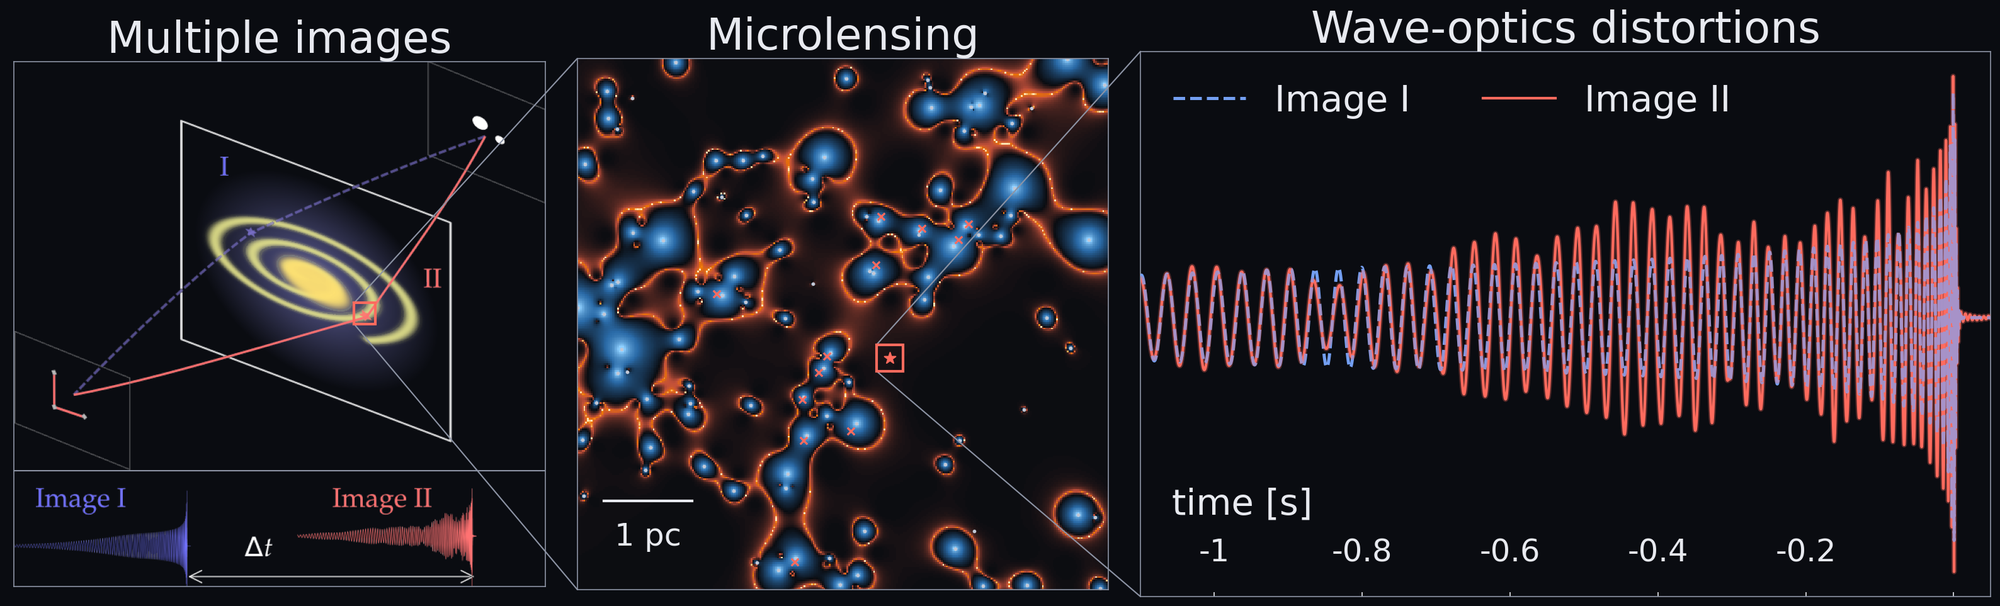
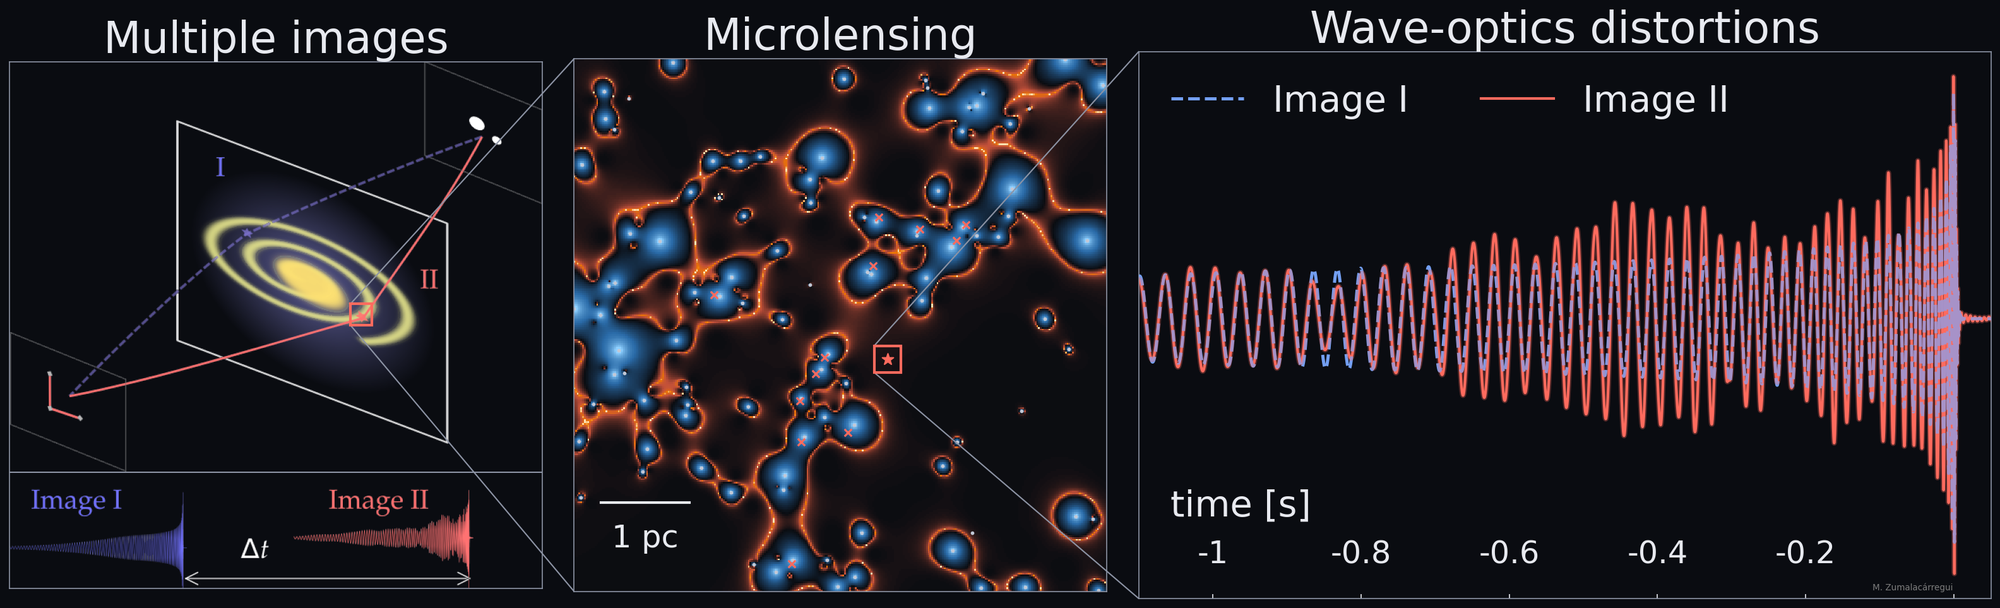
Close the independence claim on infrastructure
"and the infrastructure for anyone to reproduce the results" -- the owner's
wording, replacing "and results anyone can reproduce from public data". It
claims something the project builds rather than a property the results
happen to have, and it is what the software page already delivers: archived
posteriors, companion code, a version DOI.

Claude-Session: https://claude.ai/code/session_01L7GT62S61eYxRuSFTmWGfu

diff --git a/data-analysis.html b/data-analysis.html
@@ -57,7 +57,8 @@ topic_id: data-analysis
     But lensing signatures are varied and subtle, and a claim of this kind
     carries much further when more than one group arrives at it. GLOW will
     provide that independent analysis — a different team, different methods,
-    different assumptions, and results anyone can reproduce from public data.
+    different assumptions, and the infrastructure for anyone to reproduce the
+    results.
   </p>
 </section>
 
